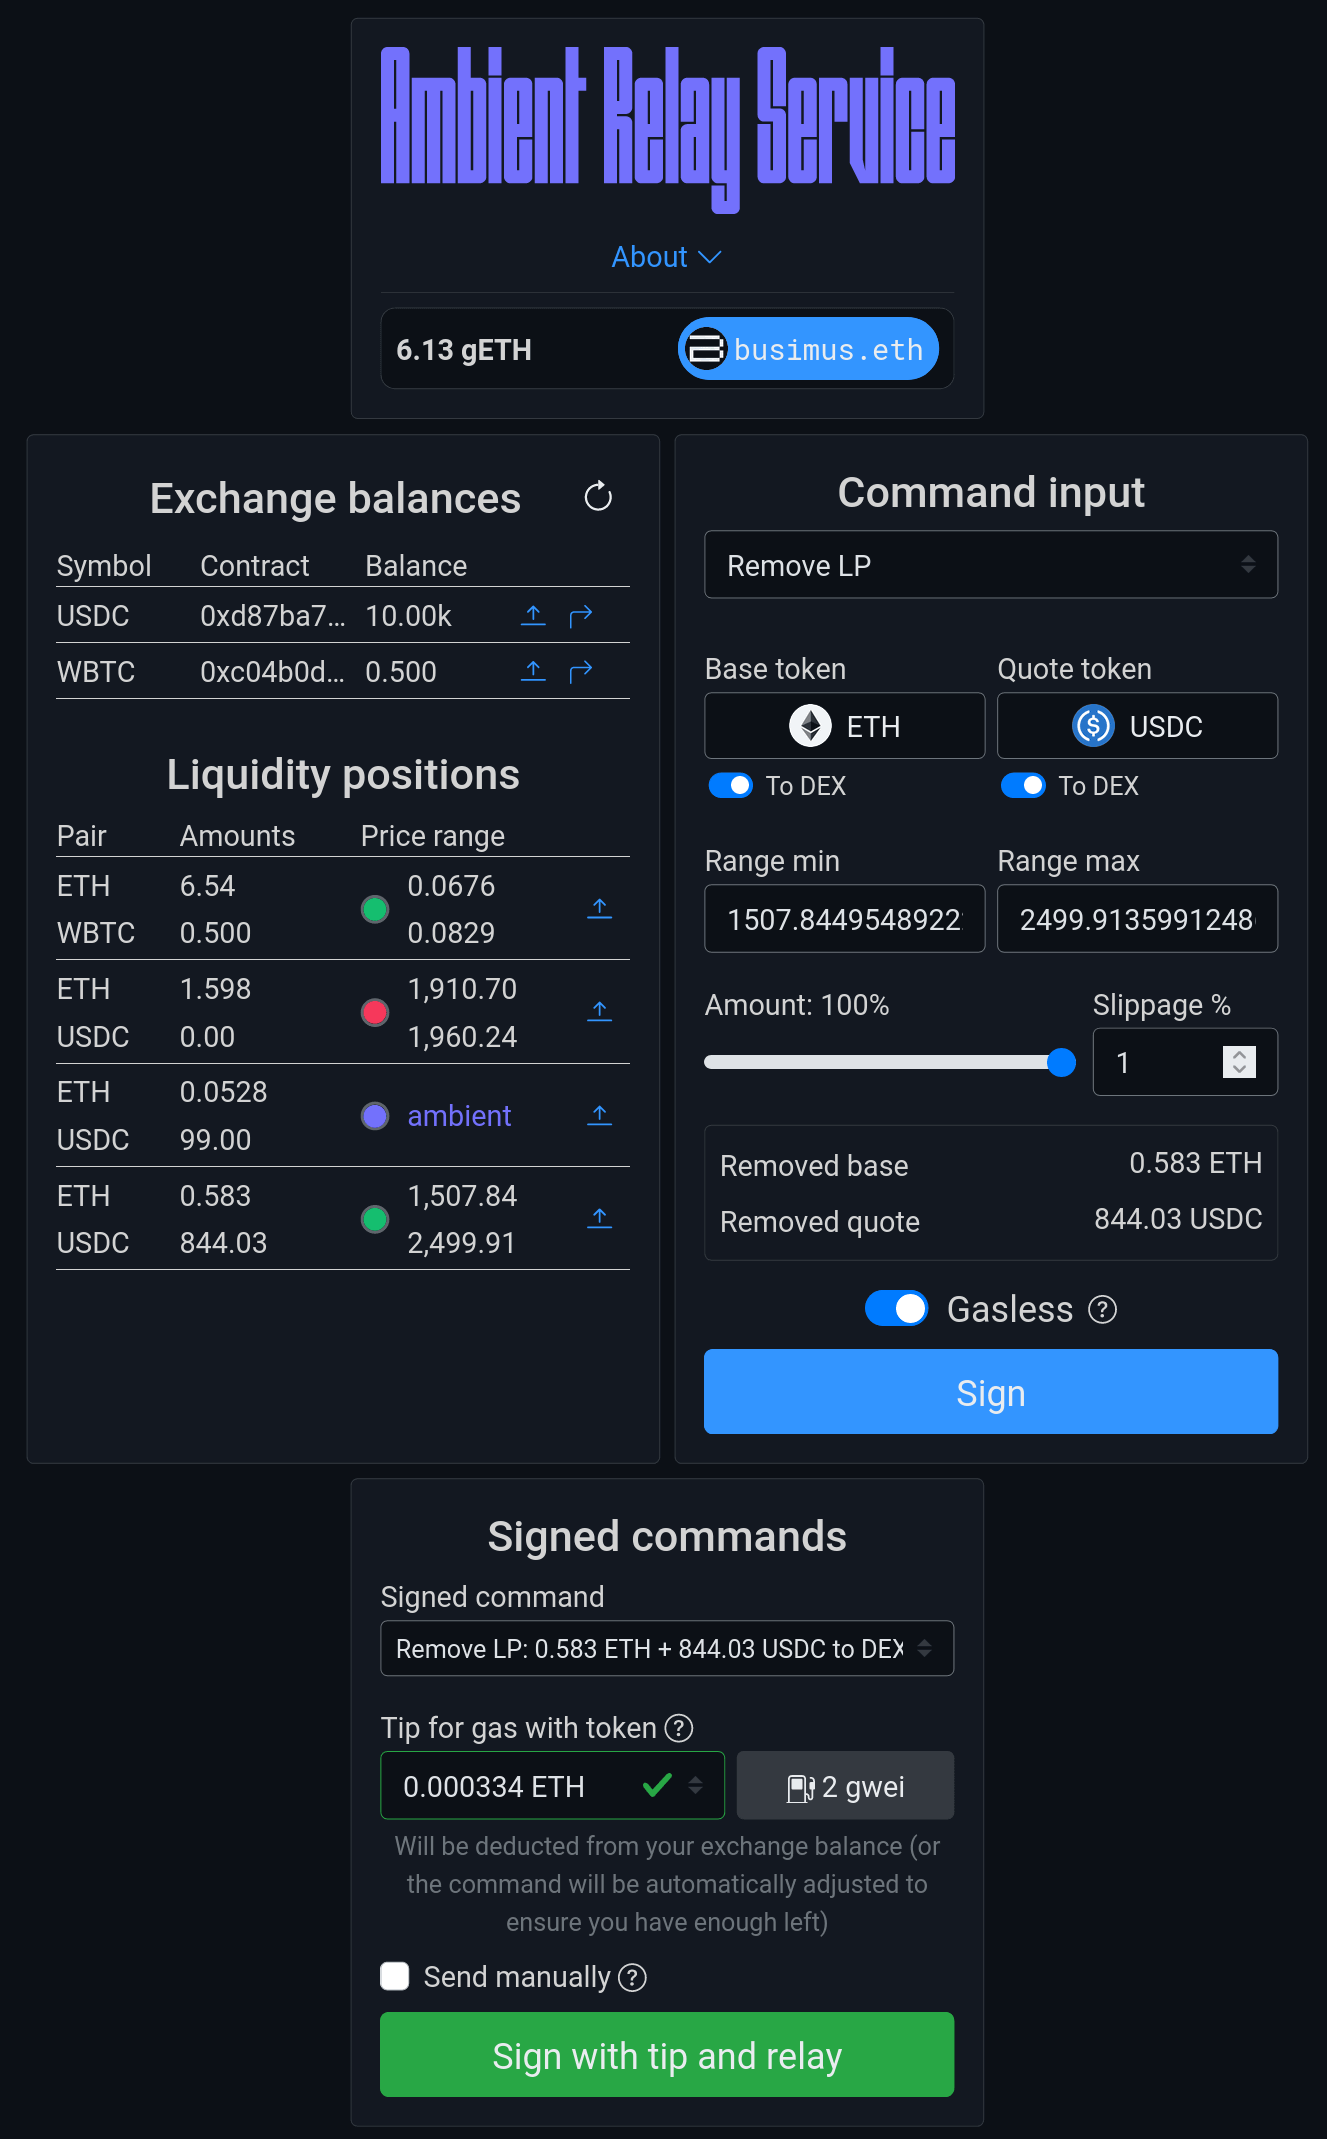
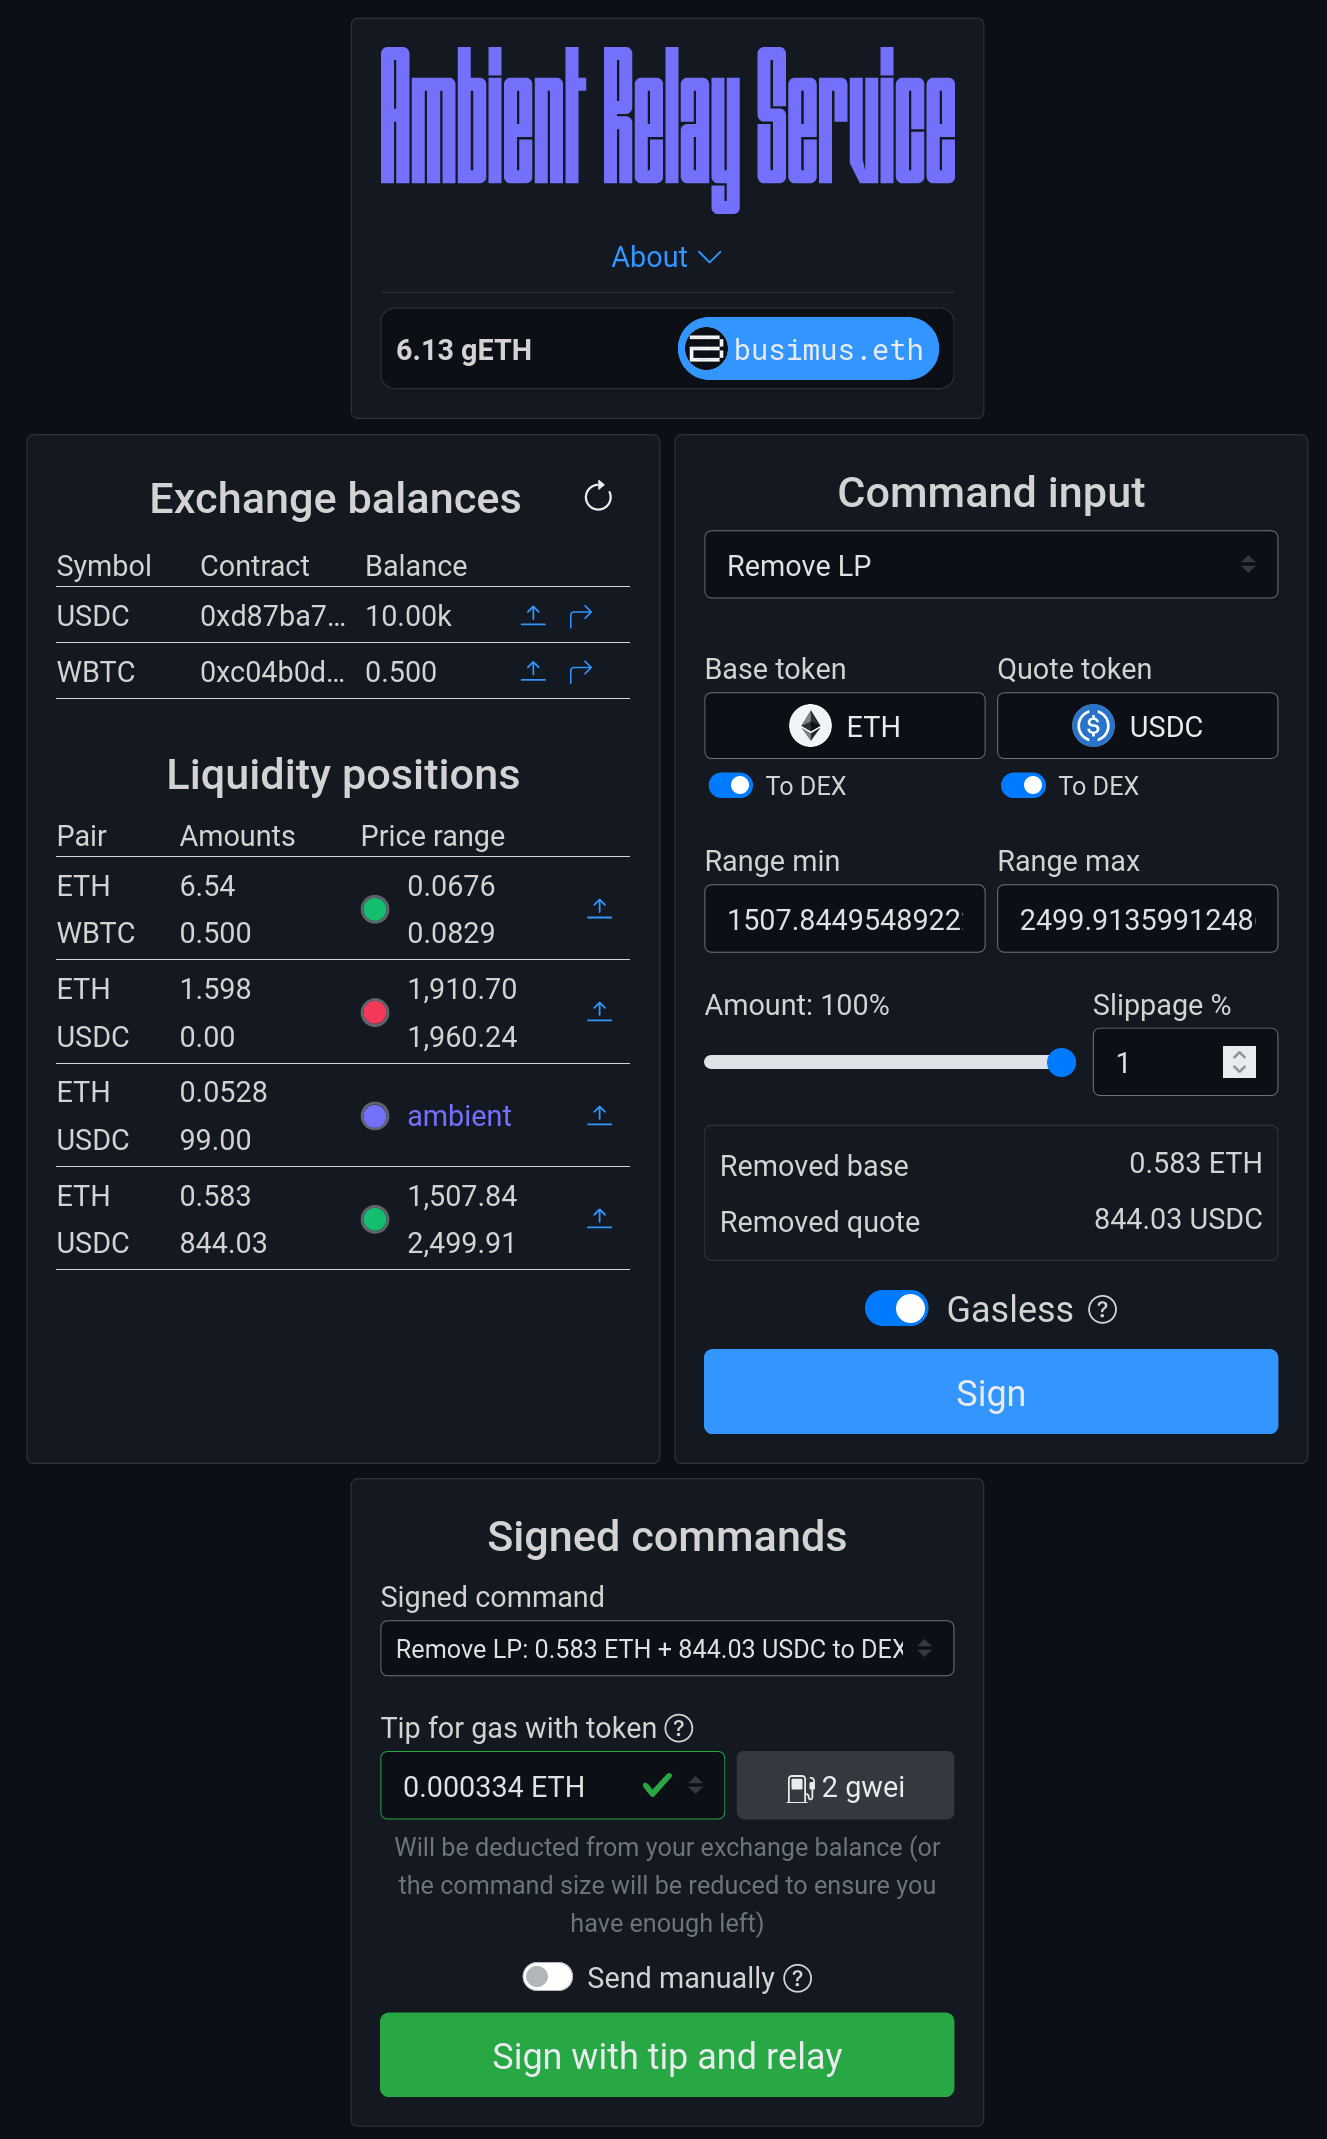
Change tip wording

Changed region(s): [[0.309, 0.864, 0.7106, 0.9565], [0.2781, 0.8948, 0.309, 0.9565]]

diff --git a/frontend/src/App.vue b/frontend/src/App.vue
@@ -135,9 +135,7 @@
                   <b-icon-arrow-clockwise v-else :class="{ 'icon-spin': estimating }" />
                 </b-button>
               </div>
-              <small class="form-text text-muted text-center mb-2">Will be deducted from your exchange balance (or
-                the
-                command will be automatically adjusted to ensure you have enough left)</small>
+              <small class="form-text text-muted text-center mb-2">Will be deducted from your exchange balance (or the command size will be reduced to ensure you have enough left)</small>
             </b-form-group>
             <div id="attached-tip" v-if="scmd._action.tip.amount" style="display: flex; align-items: center; gap: 0.5rem">
               <span style="height: fit-content">Attached tip: {{ this.tipAmountHuman(scmd._action.tip) }}</span>
